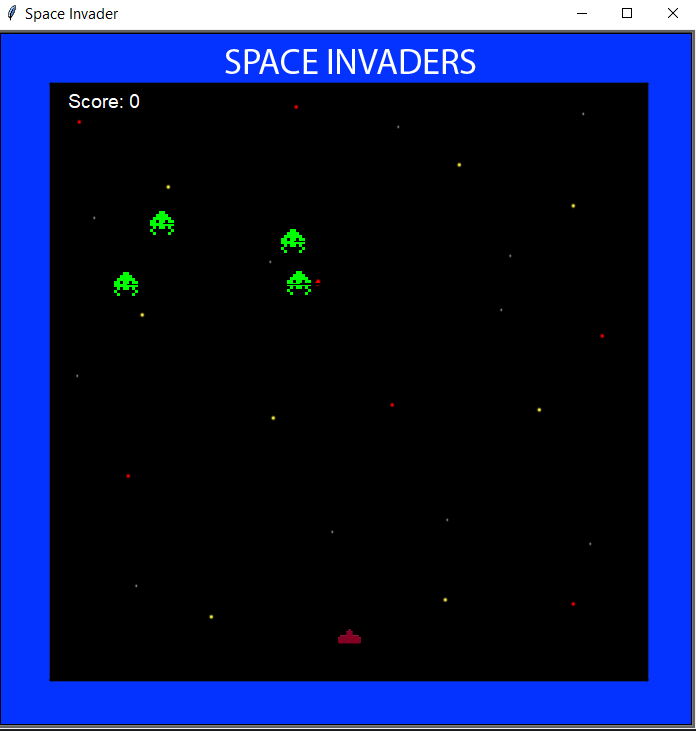
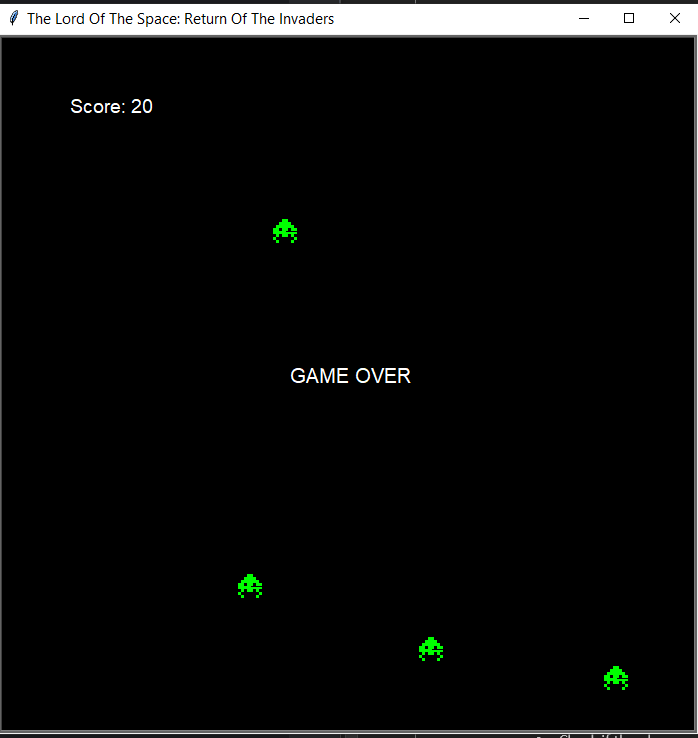
added win/lose condition

diff --git a/main.py b/main.py
@@ -5,12 +5,18 @@ from Enemy import Enemy
 from Bullet import Bullet
 import random
 
+
+def is_collision(turtle1, turtle2):
+    distance = turtle1.distance(turtle2.xcor(), turtle2.ycor())
+    return distance < 20
+
+
 wn = turtle.Screen()
 
 wn.setup(700, 700)
 wn.bgcolor("black")
-wn.title("Space Invader")
-wn.bgpic("Images/space_invaders_background.gif")
+wn.title("The Lord Of The Space: Return Of The Invaders")
+# wn.bgpic("Images/space_invaders_background.gif")
 wn.register_shape("Images/player.gif")
 
 score = ScoreBoard()
@@ -39,6 +45,20 @@ gameOver = False
 
 while not gameOver:
     for enemy in enemy_list:
+        if (score.score == 200):
+            gameOver = True
+            score.you_won()
+
+        if is_collision(player, enemy):
+            gameOver = True
+            score.game_over()
+            player.hideturtle()
+
+        if enemy.ycor() < -270:
+            gameOver = True
+            score.game_over()
+            player.hideturtle()
+
         if enemy.direction == "right":
             enemy.setx(enemy.xcor() + enemy.move_speed)
         elif enemy.direction == "left":
@@ -57,6 +77,15 @@ while not gameOver:
         if bullet.ycor() > 280:
             bullet.state = "ready"
             bullet.hideturtle()
+
+        if is_collision(bullet,enemy):
+            score.increase_score()
+            bullet.hideturtle()
+            bullet.goto(player.xcor(), player.ycor())
+            bullet.state = "ready"
+            new_ran_x = random.randint(-250, 250)
+            new_ran_y = random.randint(100, 200)
+            enemy.setpos(new_ran_x,new_ran_y)
 
 
 

diff --git a/ScoreBoard.py b/ScoreBoard.py
@@ -12,5 +12,17 @@ class ScoreBoard(Turtle):
         self.write(f"Score: {self.score}", False, align="left", font=("Arial", 14, "normal"))
         self.hideturtle()
 
-    def write_score(self):
+    def increase_score(self):
+        self.score += 10
+        self.clear()
         self.write(f"Score: {self.score}", False, align="left", font=("Arial", 14, "normal"))
+
+    def game_over(self):
+        self.goto(0, 0)
+        self.write("GAME OVER", False, "center", font=("Arial", 15, "normal"))
+
+    def you_won(self):
+        self.goto(0, 0)
+        self.write("YOU WON", False, "center", font=("Arial", 15, "normal"))
+
+

diff --git a/Enemy.py b/Enemy.py
@@ -6,7 +6,8 @@ class Enemy(Turtle):
         super().__init__()
         self.screen.register_shape("Images/invader.gif")
         self.shape("Images/invader.gif")
-        self.move_speed = 3
+        self.move_speed = 20
         self.direction = "right"
-        self.drop_down = 40
+        self.drop_down = 80
+        self.penup()
 

diff --git a/Bullet.py b/Bullet.py
@@ -11,7 +11,7 @@ class Bullet(Turtle):
         self.penup()
         self.hideturtle()
         self.state = "ready"
-        self.speed = 5
+        self.speed = 10
 
 
     def fire(self, player):

diff --git a/Player.py b/Player.py
@@ -23,3 +23,5 @@ class Player(Turtle):
             self.setx(self.xcor() + 0)
         else:
             self.setx(self.xcor() + 20)
+
+
